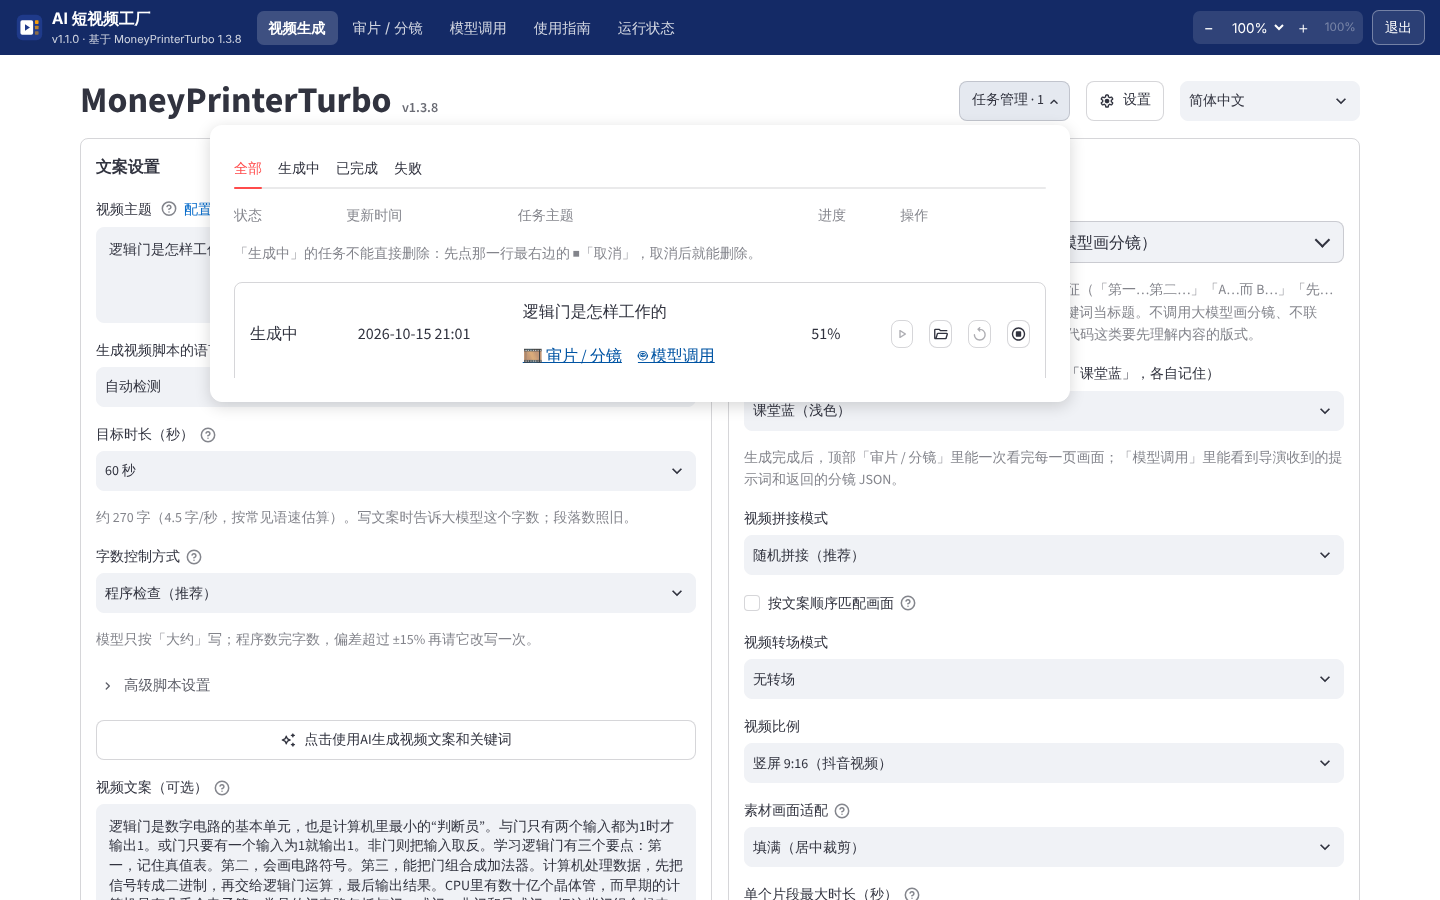
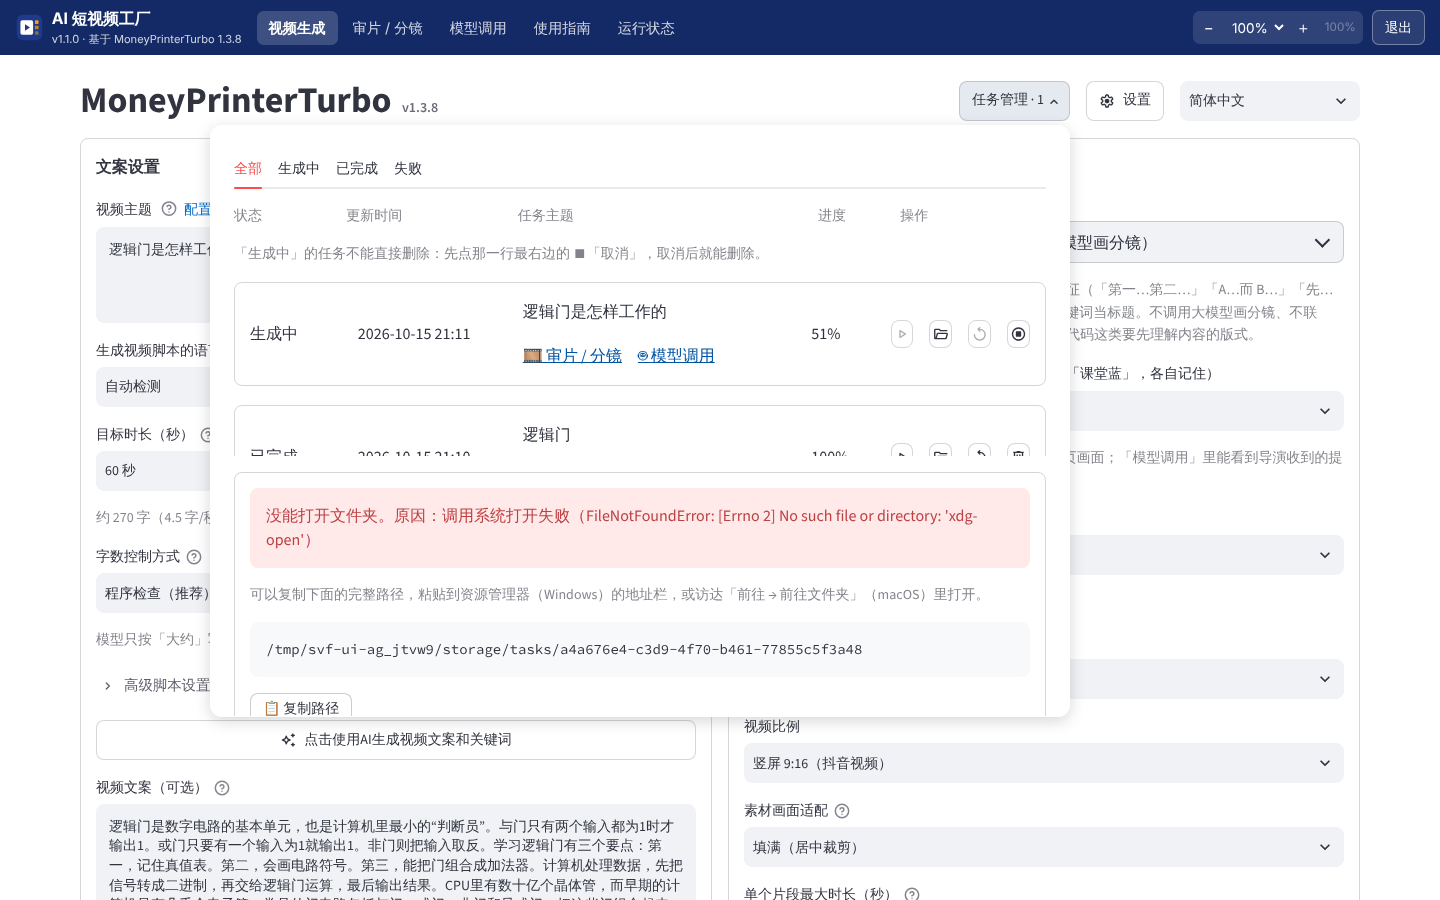
AI 短视频工厂 1.1.0（进行中）：完整界面检查 123/124（唯一一项是运行中改了 architecture.svg 导致大小不符），截图更新；00 当前状态加 1.1.0 各项；日志解读说明 AI 导演 [skip ci]
下一步：上游测试（含 --with-ext）、Linux 打包冒烟、填测试数字，最后一次提交跑 CI。

Claude-Session: https://claude.ai/code/session_01KUofmxnsMVGvWx7QtZcrT5

diff --git a/shortvideo-factory/svf_ext/explain.py b/shortvideo-factory/svf_ext/explain.py
@@ -59,11 +59,11 @@ STEPS = [
      "用 Edge 时间戳只要 1–2 秒；改用 whisper 识别要几十秒到几分钟（还要先下载模型）。",
      "选了 whisper 但没装可选组件或没下载模型；配音没有返回时间点时字幕可能为空。"),
     ("materials", "找素材或画卡片",
-     "库存视频来源：用关键词去 Pexels / Pixabay 搜索并下载视频片段；「知识讲解卡片」：按字幕时间把文案分成若干页，由程序画出讲解页。",
+     "库存视频来源：用关键词去 Pexels / Pixabay 搜索并下载视频片段；「知识讲解卡片」：按字幕时间把文案分成若干页，由程序画出讲解页（AI 导演模式先请大模型设计分镜，插图模式再调用文生图）。",
      "画面要覆盖整段配音的时长。",
-     "下载素材 30 秒到几分钟（看网速和片段数，已下过的会用缓存）；画知识卡片几秒到十几秒。",
+     "下载素材 30 秒到几分钟（看网速和片段数，已下过的会用缓存）；画知识卡片几秒到十几秒；AI 导演再加一次大模型调用（十几秒到一两分钟），每张 AI 插图几秒到几十秒。",
      "素材钥匙没填或填错（401、400）、搜不到素材、网络或代理问题（可在「设置 → 素材来源」填素材下载代理）；"
-     "卡片很少出错，出错多半是磁盘满或字体文件缺失。"),
+     "卡片很少出错，出错多半是磁盘满或字体文件缺失；AI 导演没用上时会退回规则切分（原因写在这一步里），不会让任务失败。"),
     ("clips", "处理片段",
      "把每段素材裁成统一的画面比例和分辨率、截到合适长度、按需要变速，各自重新编码成小片段。",
      "素材来自不同作者，尺寸、帧率、编码都不一样，统一以后才能接起来。",

diff --git a/shortvideo-factory/docs/00 项目阅读入口.md b/shortvideo-factory/docs/00 项目阅读入口.md
@@ -102,6 +102,9 @@ Releases 页面：<https://github.com/luoxuran1982/claude2/releases>（标签 `s
 | 界面检查 | 1.0.2 在 Linux 容器里用无头 Chromium 检查 77 项全部通过（`tests/ui_check.py --generate`）：使用指南逐篇、源码页与 zip、缩放 11 档与上下限、下拉菜单位置、窄窗口、运行状态与 `ps` 一致、重启后台后列表更新；视频来源下拉单列「程序生成」组、卡片配色、中文主题选 af-ZA 声音时的提醒、Pixabay 钥匙填进 Pexels 栏的提示、素材下载代理输入框；本地素材 + 无配音、知识讲解卡片 + 无配音各走通一次出片；点「退出」后进程和端口全部释放。**1.0.3 新增 20 项全部通过**（`--only-103`，大模型用本机假接口）：目标时长控件和换算字数、界面上「生成文案」、连点三次只起一个任务、按钮变灰「生成中…」、日志解读带行号、大模型调用记录（含目标时长的提示词、token、没有钥匙）、原始日志行号、任务管理「取消」和说明、取消后「已取消」且能删除、「打开目录」失败时的完整路径和「复制路径」 |
 | 测试 | 外壳单元测试 87 项（1.0.3 新增 `tests/test_ext103.py`：日志解读、目标时长、去钥匙、编码器选择、音频滤镜、字幕排版、合成小样、取消时找子进程；`test_cards.py` 新增防重复与取消、调用记录、快速通道长文案三个离线任务和取消逻辑的单元测试；`test_shell.py` 新增 `/api/open-path` 的路径限制）、缩放 JS 测试；上游自带测试 2043 项通过（跳过 29 项，依赖已删除的商业字体/音乐或 FFmpeg 版本，见 `tests/run_upstream_tests.py`）；加载外壳扩展 svf_ext 再跑一遍（补丁 P5–P8 和外壳包装都生效）2041 项通过，另跳过 2 项 1.0.2 有意改变的行为（1.0.3 没有新增要跳过的） |
 | 离线出片 | 容器里用「本地文件」素材 + 「无配音」、以及「知识讲解卡片」+ 固定文案 + 假配音（本地生成的音频和逐字时间，字幕照常生成）都走通了完整生成，产出 1080×1920 成片；CI 两个平台的冒烟测试用安装包里的 Python 跑同一个知识卡片任务（1.0.3 起走快速通道，并报告用的编码器），以及 1.0.3 的取消 / 防重复 / 已中断检查和大模型调用记录检查 |
+| AI 导演、工坊主题、AI 插图（1.1.0） | 已验证（容器，用假的 OpenAI 兼容服务端返回固定的导演 JSON 和一张 PNG）：AI 导演出片、按字幕定时、不合格重试一次、两次不合格退回规则切分、调用出错直接退回、插图生成与「结果不明」时停止、没配置文生图时退回纯卡片；工坊主题 12 种版式 × 4 套主题 × 竖屏横屏都能画。CI 两个平台的冒烟测试用安装包里的 Python 跑「卡片 + AI 插图」离线出片。**真实大模型设计的分镜质量、不同模型守 JSON 格式的程度、真实文生图的效果和费用，待用户验收** |
+| 审片 / 分镜、模型调用（1.1.0） | 已验证（容器内 Chromium）：生成页和任务管理的入口、审片网格（缩略图、序号和版式名、口播）、点一格成片跳到那一页、分镜详情（大图、表格数据、对应句子）、模型调用的分块、着色、调用链、思考过程、复制、没有钥匙。**库存视频来源的素材缩略帧只有代码走查和接口测试，没有用真实素材跑过**；macOS WKWebView 里的显示待用户验收 |
+| 字数控制方式（1.1.0） | 已验证（假服务端）：三档提示词不同、程序检查档偏差超过 ±15% 时改写一次且只在更接近目标时采用、日志解读显示档位和字数。**「程序检查」比「严格」省多少思考 token、对内容质量的影响，没有用真实推理模型对比过，待用户实测** |
 | 知识卡片快速通道（1.0.3） | 已验证（容器，Linux，4 核，无显卡，libx264）：约 47 秒竖屏长文案 + 背景音乐，1.0.2 流程 205–235 秒 → 快速通道 33–40 秒（静止画面 22 秒）；成片 1080×1920、有声音、字幕和 1.0.2 同一时刻同一句、背景音乐铺满并在结尾淡出。**硬件编码器（NVENC / QSV / AMF / VideoToolbox）的选用和你电脑上的用时待用户验收** |
 | 防重复提交、取消、已中断（1.0.3） | 已验证：连点三次只起一个任务、按钮变灰；编码中取消后 FFmpeg 被结束、状态「已取消」不会被写回、可以删除；残留任务标「已中断」（单元测试 + 离线检查 + 容器内 Chromium）。**在 Windows 上取消、删除和你手上 1.0.2 留下的「生成中 0%」任务的清理待用户验收** |
 | 「打开目录」经启动器打开（1.0.3） | 已验证：接口只放行数据目录之内（越界、`..`、符号链接、没有令牌都被拒绝），子进程经接口请求，失败时界面显示完整路径和「复制路径」（容器里没有 xdg-open，走的正是失败分支）。**Windows 上资源管理器真的弹出来、在应用窗口前面，待用户验收**；根本原因的分析（后台无窗口进程里 ShellExecute 打开文件夹静默失败或窗口被压在后面）是按代码和 Windows 机制推断的，容器里不能复现 |
